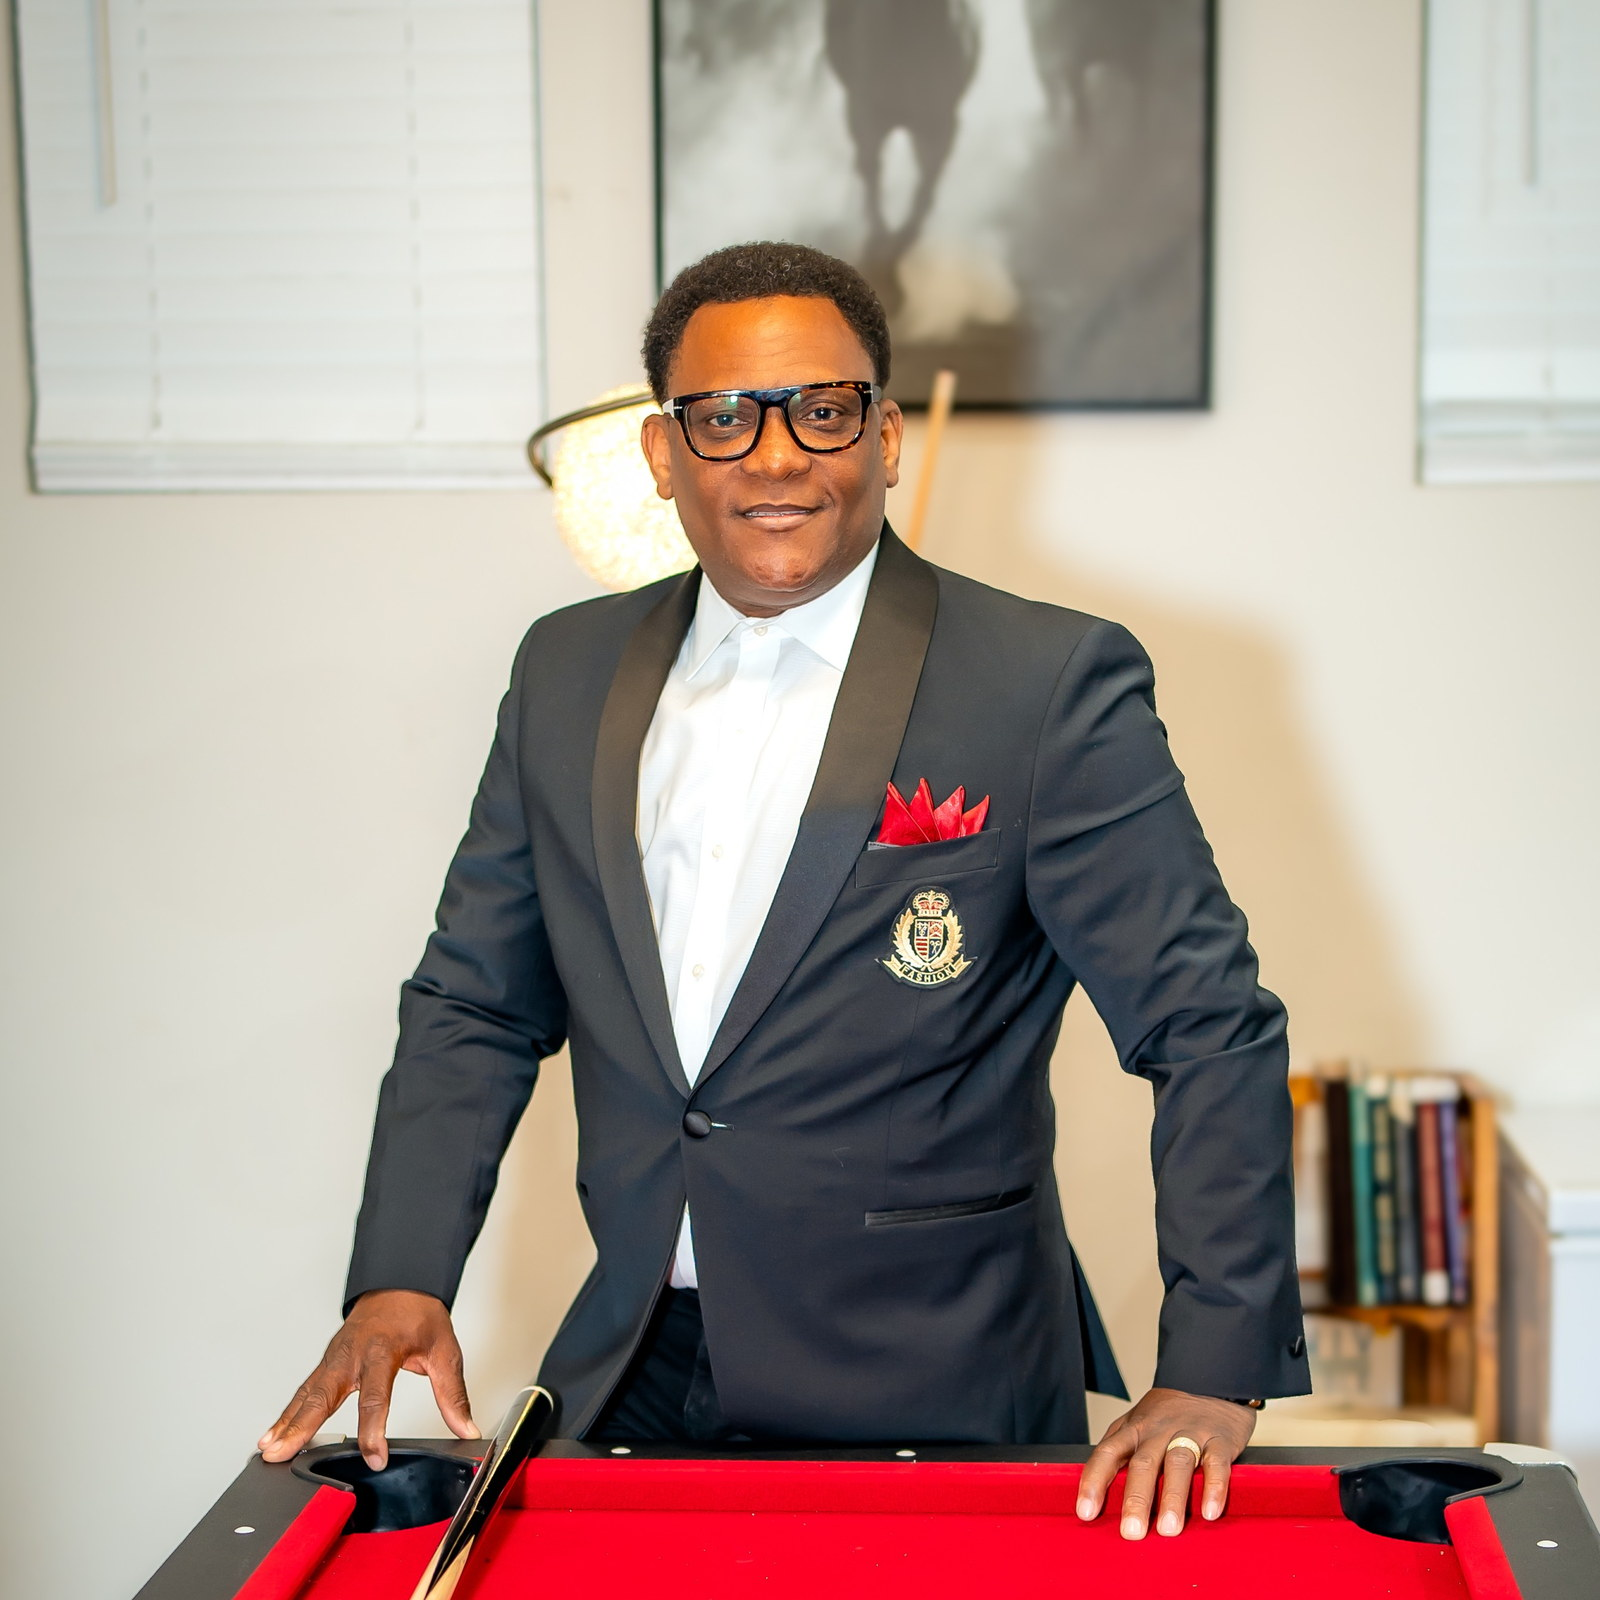
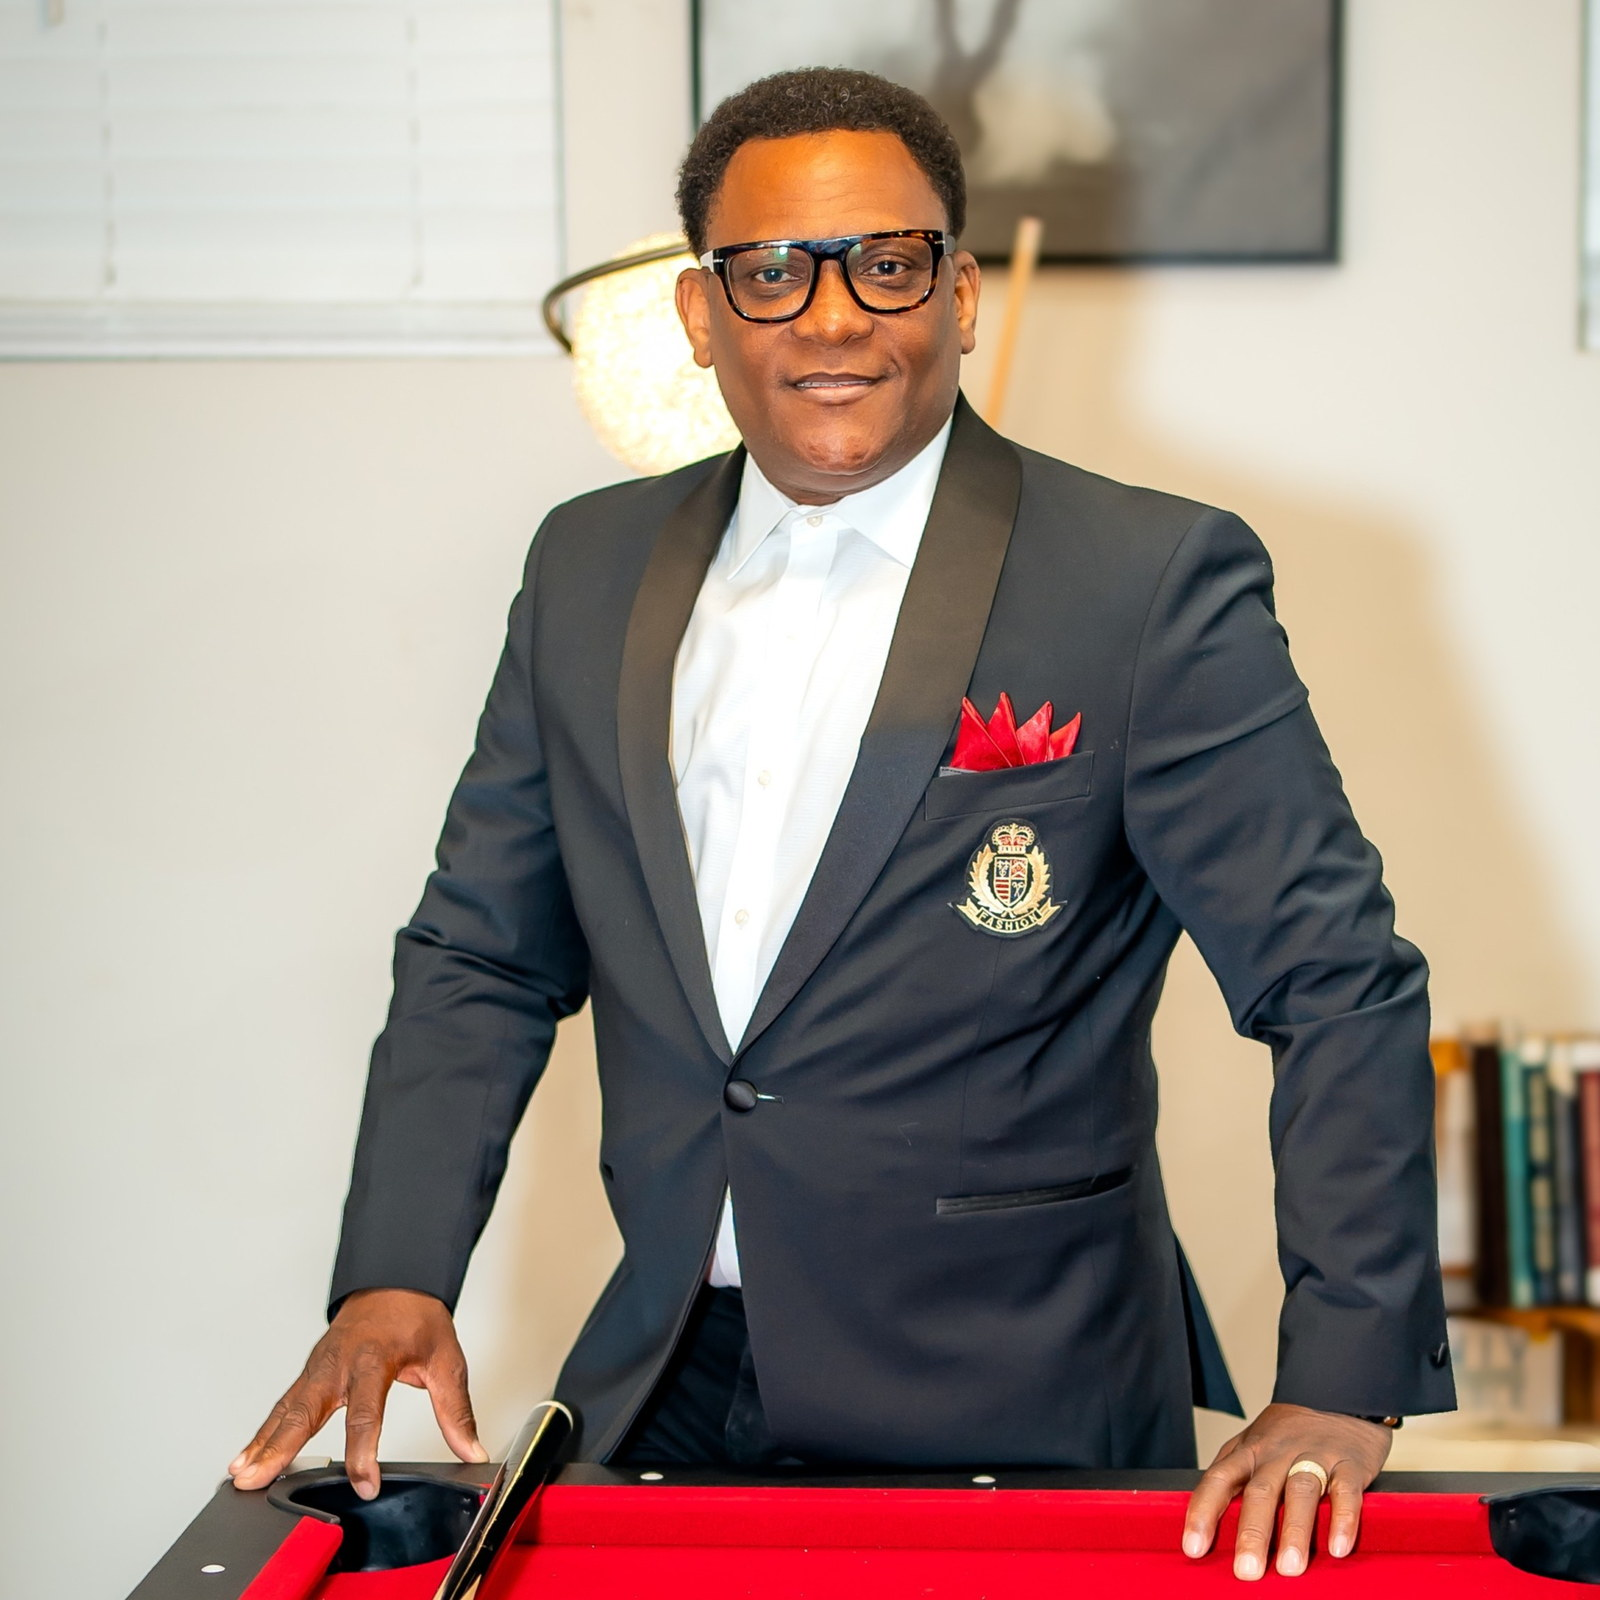
Wire all uploaded photos into service cards and What to Expect stack
Pulled the freshly uploaded photos off claude/preview-imnew-tabs and
ran them through the optimization pipeline (EXIF transpose, Lanczos
downscale, progressive JPEG with 4:2:2 chroma):

Pastors (max 1600px, q=88):
- pastor_bayo.jpg:        515 KB -> 266 KB  (reuploaded)
- pastor_yemisi.jpg:    2,335 KB -> 284 KB
- pastors_portrait.jpg:    66 KB -> 101 KB  (q=88 re-encode)

I'm New sticky-stack states (4:5 portrait, max 1500px, q=82):
- sanctuary_sunday.jpg:    412 KB -> 230 KB  (1200x1500)
- congregation_candid.jpg: 279 KB -> 230 KB  (1052x1315)
- worship_band.jpg:        276 KB -> 230 KB  (1145x1431)
- pastor_teaching.jpg:     243 KB -> 206 KB  (1152x1440)

Service-time cards (3:2 source, max 1600px, q=82):
- service_sunday.jpg:        1,713 KB -> 196 KB  (1600x1066)
- service_monday.jpg:        1,330 KB -> 166 KB  (1600x1066)
- service_wednesday.jpg:     1,596 KB -> 215 KB  (1600x1066)
- service_sunday_school.jpg:   446 KB -> 129 KB  (1600x900)

Linked them in:
- index.html: <img> in each of the three .card-image divs (Sunday,
  Monday, Wednesday).
- events.html: <img> in all four weekly-rhythm .card-image divs
  (Sunday School, Hours of Transformation, Prayer Line, Bible Study).
- new.html: <img> in each of the four .stack-state divs and added the
  .has-image class so the placeholder pill hides, the bottom-fade
  overlay activates, and the italic caption switches to parchment.

Sticky stack tuning:
- .stack-card min-height: 400px -> 380px per request.
[…]

diff --git a/site/new.html b/site/new.html
@@ -8,7 +8,7 @@
 <link rel="preconnect" href="https://fonts.googleapis.com" />
 <link rel="preconnect" href="https://fonts.gstatic.com" crossorigin />
 <link href="https://fonts.googleapis.com/css2?family=DM+Serif+Display:ital@0;1&family=Manrope:wght@300;400;500;600;700&display=swap" rel="stylesheet" />
-<link rel="stylesheet" href="styles.css?v=33" />
+<link rel="stylesheet" href="styles.css?v=34" />
 </head>
 <body data-page="new">
 
@@ -38,20 +38,20 @@
       <!-- Pinned arched visual -->
       <div class="stack-visual">
         <div class="stack-arch">
-          <div class="stack-state active" data-state="1">
-            <span class="placeholder">Photo: sanctuary_sunday.jpg</span>
+          <div class="stack-state has-image active" data-state="1">
+            <img src="assets/photos/sanctuary_sunday.jpg" alt="Sunday service in the sanctuary" loading="lazy" />
             <p class="caption">"About 90 minutes of worship and the Word."</p>
           </div>
-          <div class="stack-state" data-state="2">
-            <span class="placeholder">Photo: congregation_candid.jpg</span>
+          <div class="stack-state has-image" data-state="2">
+            <img src="assets/photos/congregation_candid.jpg" alt="Congregation gathered for worship" loading="lazy" />
             <p class="caption">"Jeans are welcome. So is your suit."</p>
           </div>
-          <div class="stack-state" data-state="3">
-            <span class="placeholder">Photo: worship_band.jpg</span>
+          <div class="stack-state has-image" data-state="3">
+            <img src="assets/photos/worship_band.jpg" alt="Worship team leading on stage" loading="lazy" />
             <p class="caption">"Worship that's contemporary and Spirit-filled."</p>
           </div>
-          <div class="stack-state" data-state="4">
-            <span class="placeholder">Photo: pastor_teaching.jpg</span>
+          <div class="stack-state has-image" data-state="4">
+            <img src="assets/photos/pastor_teaching.jpg" alt="Pastor teaching from the pulpit" loading="lazy" />
             <p class="caption">"Bible-centered teaching for the everyday."</p>
           </div>
         </div>

diff --git a/site/events.html b/site/events.html
@@ -8,7 +8,7 @@
 <link rel="preconnect" href="https://fonts.googleapis.com" />
 <link rel="preconnect" href="https://fonts.gstatic.com" crossorigin />
 <link href="https://fonts.googleapis.com/css2?family=DM+Serif+Display:ital@0;1&family=Manrope:wght@300;400;500;600;700&display=swap" rel="stylesheet" />
-<link rel="stylesheet" href="styles.css?v=33" />
+<link rel="stylesheet" href="styles.css?v=34" />
 </head>
 <body data-page="events">
 
@@ -34,7 +34,7 @@
     </div>
     <div class="grid c2 reveal">
       <div class="church-card">
-        <div class="card-image"></div>
+        <div class="card-image"><img src="assets/photos/service_sunday_school.jpg" alt="Sunday School" loading="lazy" /></div>
         <div class="card-body">
           <div class="card-eyebrow">Sunday</div>
           <div class="card-title">Sunday<br />School</div>
@@ -43,7 +43,7 @@
         </div>
       </div>
       <div class="church-card">
-        <div class="card-image"></div>
+        <div class="card-image"><img src="assets/photos/service_sunday.jpg" alt="Sunday Hours of Transformation" loading="lazy" /></div>
         <div class="card-body">
           <div class="card-eyebrow">Sunday</div>
           <div class="card-title">Hours of<br />Transformation</div>
@@ -52,7 +52,7 @@
         </div>
       </div>
       <div class="church-card">
-        <div class="card-image"></div>
+        <div class="card-image"><img src="assets/photos/service_monday.jpg" alt="Monday Prayer Line" loading="lazy" /></div>
         <div class="card-body">
           <div class="card-eyebrow">Monday</div>
           <div class="card-title">Prayer<br />Line</div>
@@ -61,7 +61,7 @@
         </div>
       </div>
       <div class="church-card">
-        <div class="card-image"></div>
+        <div class="card-image"><img src="assets/photos/service_wednesday.jpg" alt="Wednesday Masterclass Bible Study" loading="lazy" /></div>
         <div class="card-body">
           <div class="card-eyebrow">Wednesday</div>
           <div class="card-title">Masterclass<br />Bible Study</div>

diff --git a/site/index.html b/site/index.html
@@ -8,7 +8,7 @@
 <link rel="preconnect" href="https://fonts.googleapis.com" />
 <link rel="preconnect" href="https://fonts.gstatic.com" crossorigin />
 <link href="https://fonts.googleapis.com/css2?family=DM+Serif+Display:ital@0;1&family=Manrope:wght@300;400;500;600;700&display=swap" rel="stylesheet" />
-<link rel="stylesheet" href="styles.css?v=33" />
+<link rel="stylesheet" href="styles.css?v=34" />
 </head>
 <body data-page="home">
 
@@ -77,7 +77,7 @@
     </div>
     <div class="grid c3 reveal">
       <div class="church-card">
-        <div class="card-image"></div>
+        <div class="card-image"><img src="assets/photos/service_sunday.jpg" alt="Sunday Hours of Transformation service" loading="lazy" /></div>
         <div class="card-body">
           <div class="card-eyebrow">Sunday</div>
           <div class="card-title">Hours of<br />Transformation</div>
@@ -87,7 +87,7 @@
         </div>
       </div>
       <div class="church-card">
-        <div class="card-image"></div>
+        <div class="card-image"><img src="assets/photos/service_monday.jpg" alt="Monday Prayer Line" loading="lazy" /></div>
         <div class="card-body">
           <div class="card-eyebrow">Monday</div>
           <div class="card-title">Prayer<br />Line</div>
@@ -97,7 +97,7 @@
         </div>
       </div>
       <div class="church-card">
-        <div class="card-image"></div>
+        <div class="card-image"><img src="assets/photos/service_wednesday.jpg" alt="Wednesday Masterclass Bible Study" loading="lazy" /></div>
         <div class="card-body">
           <div class="card-eyebrow">Wednesday</div>
           <div class="card-title">Masterclass<br />Bible Study</div>

diff --git a/site/about.html b/site/about.html
@@ -8,7 +8,7 @@
 <link rel="preconnect" href="https://fonts.googleapis.com" />
 <link rel="preconnect" href="https://fonts.gstatic.com" crossorigin />
 <link href="https://fonts.googleapis.com/css2?family=DM+Serif+Display:ital@0;1&family=Manrope:wght@300;400;500;600;700&display=swap" rel="stylesheet" />
-<link rel="stylesheet" href="styles.css?v=33" />
+<link rel="stylesheet" href="styles.css?v=34" />
 </head>
 <body data-page="about">
 

diff --git a/site/contact.html b/site/contact.html
@@ -8,7 +8,7 @@
 <link rel="preconnect" href="https://fonts.googleapis.com" />
 <link rel="preconnect" href="https://fonts.gstatic.com" crossorigin />
 <link href="https://fonts.googleapis.com/css2?family=DM+Serif+Display:ital@0;1&family=Manrope:wght@300;400;500;600;700&display=swap" rel="stylesheet" />
-<link rel="stylesheet" href="styles.css?v=33" />
+<link rel="stylesheet" href="styles.css?v=34" />
 </head>
 <body data-page="contact">
 

diff --git a/site/give.html b/site/give.html
@@ -8,7 +8,7 @@
 <link rel="preconnect" href="https://fonts.googleapis.com" />
 <link rel="preconnect" href="https://fonts.gstatic.com" crossorigin />
 <link href="https://fonts.googleapis.com/css2?family=DM+Serif+Display:ital@0;1&family=Manrope:wght@300;400;500;600;700&display=swap" rel="stylesheet" />
-<link rel="stylesheet" href="styles.css?v=33" />
+<link rel="stylesheet" href="styles.css?v=34" />
 </head>
 <body data-page="give">
 

diff --git a/site/live.html b/site/live.html
@@ -8,7 +8,7 @@
 <link rel="preconnect" href="https://fonts.googleapis.com" />
 <link rel="preconnect" href="https://fonts.gstatic.com" crossorigin />
 <link href="https://fonts.googleapis.com/css2?family=DM+Serif+Display:ital@0;1&family=Manrope:wght@300;400;500;600;700&display=swap" rel="stylesheet" />
-<link rel="stylesheet" href="styles.css?v=33" />
+<link rel="stylesheet" href="styles.css?v=34" />
 </head>
 <body data-page="live">
 

diff --git a/site/styles.css b/site/styles.css
@@ -1034,7 +1034,7 @@ body[data-page="home"] section.alt#welcome {
   border: 1px solid var(--border-soft);
   border-radius: 20px;
   padding: 64px 40px;
-  min-height: 400px;
+  min-height: 380px;
   display: flex;
   flex-direction: column;
   justify-content: center;